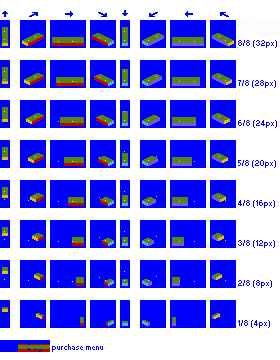
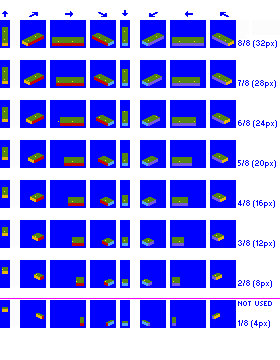
Codechange: improve coils template a little

Changed region(s): [[0.0, 0.9472, 0.3714, 0.9778], [0.8286, 0.825, 0.9714, 0.8556]]

diff --git a/misc/pixel_generator/gestalts/cargo_coils.py b/misc/pixel_generator/gestalts/cargo_coils.py
@@ -94,7 +94,7 @@ def generate(input_image_path):
                 spriterow = {'height' : common.SPRITEROW_HEIGHT, 'floorplan' : variation.floorplan}
                 # add n render passes to the spriterow (list controls render order, index 0 = first pass)
                 spriterow['render_passes'] = [
-                    {'seq' : sc_mask_out_template_guides, 'colourset' : None},
+                    #{'seq' : sc_mask_out_template_guides, 'colourset' : None},
                     {'seq' : get_load_sequence(variation.cargo, load_state), 'colourset' : None},
                 ]
                 spriterows.append(spriterow)
